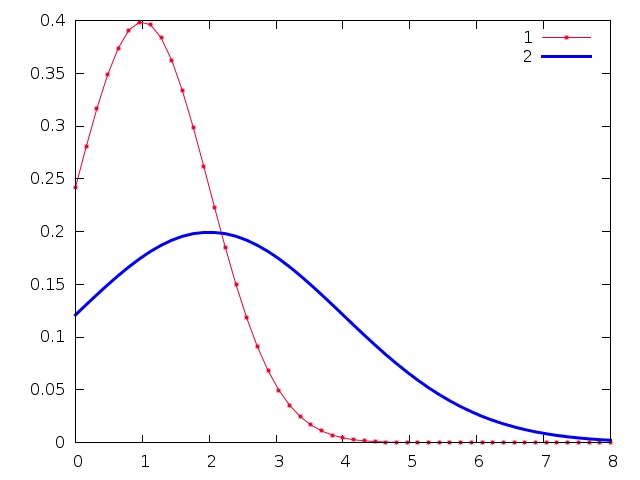
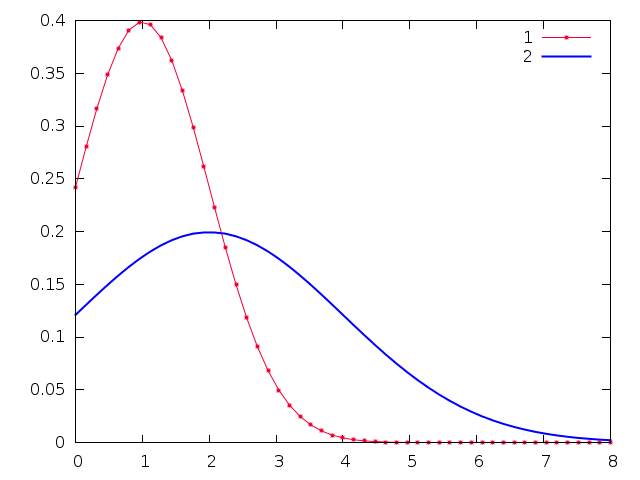
README.md update

diff --git a/src/main.cpp b/src/main.cpp
@@ -99,7 +99,7 @@ void example3(vector<double> &t, vector<double> &x1, vector<double> &x2 ) {
 
     // single property setup in multiple statements
     curvePlot.linespec(2, Color, "b");
-    curvePlot.linespec(2, LineWidth, 3);
+    curvePlot.linespec(2, LineWidth, 2);
     curvePlot.linespec(2, Marker, "none");
 
     curvePlot.exec();

diff --git a/README.md b/README.md
@@ -31,6 +31,8 @@ curvePlot.exec();
 The code above will plot __x__ against __t__ with default labels for both axes.
 The function call `.exec()` must be the last command and object initialization `eggp::Eggplot objectName` must be the first. 
 The orders of all the other setup and plot commands can be arbitrary.
+See function `example1` in `src/main.cpp`.
+
 
 ### 2. Multiple curves with legends
 ![ex2](http://github.com/yuchsiao/eggplot/raw/master/img/eggp-export-ex2.png)
@@ -58,6 +60,8 @@ Legends can be set up in a similar manner.
 Texts can be formatted with subscripts (`"_"`), superscript (`"^"`), and breaklines (`"\\n"`).
 Greek letters and other symbols are represented in different syntaxes from Latex. 
 [See here](http://mathewpeet.org/lists/symbols/) for a list of available symbols.
+See function `example2` in `src/main.cpp`.
+
 
 ### 3. Curve customization
 ![ex3](http://github.com/yuchsiao/eggplot/raw/master/img/eggp-export-ex3.png)
@@ -87,6 +91,7 @@ Two propertypes are implemented: the first one utilizes `std::initializer_list` 
 
 Customizable properties  include `LineStyle`, `LineWidth`, `Marker`, `MarkerSize`, and `Color`, each of which is defined within the namespace `eggp`.
 A list of options can be referred in the API section.
+See function `example3` in `src/main.cpp`.
 
 
 ### 4. File export
@@ -105,6 +110,7 @@ curvePlot.exec();
 
 The output files will then be `eggp-export.png`, `eggp-export.eps`, and so on. 
 Note that both EPS and PDF modes also support LaTeX-formatted texts.
+See function `example4` in `src/main.cpp`.
 
 
 API
@@ -112,54 +118,44 @@ API
 
 ### class eggp::Eggplot
 
-**Constructor**
+#### Constructor
 
-**```Eggplot(unsigned mode=eggp::SCREEN)```**
-
-Init object and set up where to plot. 
++ **```Eggplot(unsigned mode=eggp::SCREEN)```** initializes object and sets up where to plot. 
 The default is `eggp::SCREEN` to plot on screen. 
 Other output modes include `eggp::PNG`, `eggp::EPS`, `eggp::PDF`, `eggp::HTML`, and `eggp::SVG` that plot in `.png`, `.eps`, `.pdf`, `.html`, and `.svg` files, respectively.
 
-**Member functions**
+#### Member functions
 
 #####_Text Related_
 
-**```void xlabel(const std::string &label)```** sets up x axis label
++ **```void xlabel(const std::string &label)```** sets up x axis label
 
-**```void ylabel(const std::string &label)```** sets up y axis label
++ **```void ylabel(const std::string &label)```** sets up y axis label
 
-**```void title(const std::string &label)```** sets up figure title
++ **```void title(const std::string &label)```** sets up figure title
 
-**```void legend(std::initializer_list<std::string> legendVec)```** sets up figure legeneds. If the length of `legendVec` is shorter than the number of curves, default legends will be used for those whose legends are not specified.
++ **```void legend(std::initializer_list<std::string> legendVec)```** sets up figure legeneds. If the length of `legendVec` is shorter than the number of curves, default legends will be used for those whose legends are not specified.
 
 #####_Line Property Related_
 
-**```void linespec(unsigned lineIndex, LineSpecInput lineSpec)```** 
-
-customizes curves with the index `lineIndex`, starting from 1. `LineSpecInput` is a `std::map` that takes different `LineProperty` (`eggp::LineStyle`, `eggp::LineWidth`, `eggp::Marker`, `eggp::MarkerSize`, `eggp::Color`) as the key and a string as the value. In practice, written the curve setups in an initializer list is useful as in Example 3. Color can be specified in five ways: color name, color name shortcut, hex code, decimal code, and rgb values between 0 and 1. For example, for red, "r", "red", "#ff0000", "(255,0,0)", and "[1.0, 0, 0]" are equivalent.
++ **```void linespec(unsigned lineIndex, LineSpecInput lineSpec)```** customizes curves with the index `lineIndex`, starting from 1. `LineSpecInput` is a `std::map` that takes different `LineProperty` (`eggp::LineStyle`, `eggp::LineWidth`, `eggp::Marker`, `eggp::MarkerSize`, `eggp::Color`) as the key and a string as the value. In practice, written the curve setups in an initializer list is useful as in Example 3. Color can be specified in five ways: color name, color name shortcut, hex code, decimal code, and rgb values between 0 and 1. For example, for red, "r", "red", "#ff0000", "(255,0,0)", and "[1.0, 0, 0]" are equivalent.
 
 
-**```void linespec(unsigned lineIndex, LineProperty property, std::string value)```** 
-
-customizes a single curve property. All options are the same as the previous one.
++ **```void linespec(unsigned lineIndex, LineProperty property, std::string value)```** customizes a single curve property. All options are the same as the previous one.
 
 
-**```void linespec(unsigned lineIndex, LineProperty property, double value)```**
-
-customizes a single curve property with a `double` value. Same as the previous one except for the `double` data type. Only valid for `eggp::LineWidth` and `eggp::MarkerSize`.
++ **```void linespec(unsigned lineIndex, LineProperty property, double value)```** customizes a single curve property with a `double` value. Same as the previous one except for the `double` data type. Only valid for `eggp::LineWidth` and `eggp::MarkerSize`.
 
 
-**```void grid(bool flag)```** 
-
-turns on or off grids of the plot
++ **```void grid(bool flag)```** turns on or off grids of the plot
 
 #####_Output Related_
 
-**```void plot(std::initializer_list<DataVector> il)```** saves data in file `eggp.dat`. The argument must be paired (even-numbered vectors in `il`) such that each pair (the (2N-1)-th and (2N)-th vectors , N=1,2,...) has the same length. This command does not plot but only store data in hard drives. The actual plots and exports happen at function `.exec()`.
++ **```void plot(std::initializer_list<DataVector> il)```** saves data in file `eggp.dat`. The argument must be paired (even-numbered vectors in `il`) such that each pair (the (2N-1)-th and (2N)-th vectors , N=1,2,...) has the same length. This command does not plot but only store data in hard drives. The actual plots and exports happen at function `.exec()`.
 
-**```void print(const std::string &filenameExport)```** sets up export file name, or the default file name `eggp-export` will be used, otherwise. Again, this command does not really print to files but only set up the file name. The actual print and export processes happen at function `.exec()`.
++ **```void print(const std::string &filenameExport)```** sets up export file name, or the default file name `eggp-export` will be used, otherwise. Again, this command does not really print to files but only set up the file name. The actual print and export processes happen at function `.exec()`.
  
-**```void exec()```** executes everything. All previous functions set up and store necessary information for plotting and export. This function automatically generates file `eggp.gp` as input for _gnuplot_ and call `gnuplot eggp.gp` as a system call in Windows cmd or bash in Linux or OS X). The function must be called as the last command in order to generate plots.
++ **```void exec()```** executes everything. All previous functions set up and store necessary information for plotting and export. This function automatically generates file `eggp.gp` as input for _gnuplot_ and call `gnuplot eggp.gp` as a system call in Windows cmd or bash in Linux or OS X). The function must be called as the last command in order to generate plots.
 
 
 Future features
